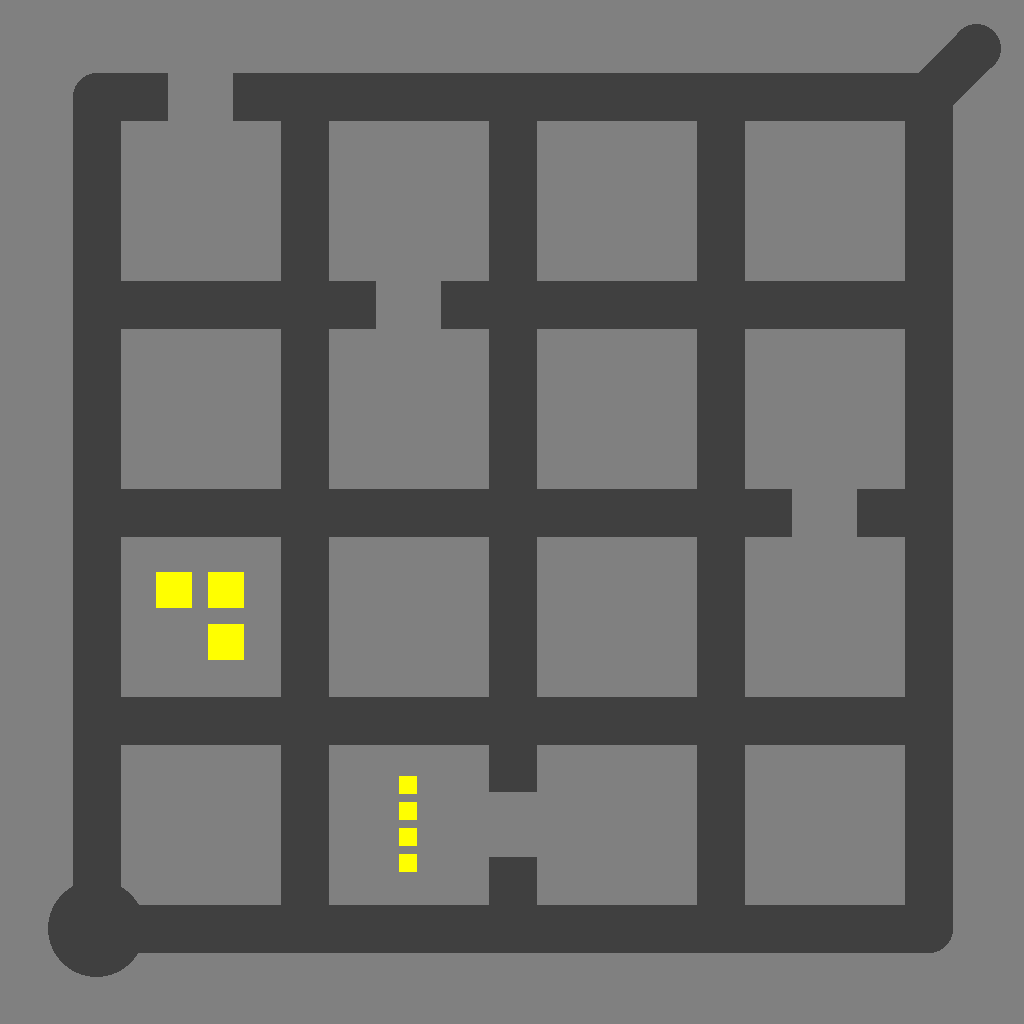
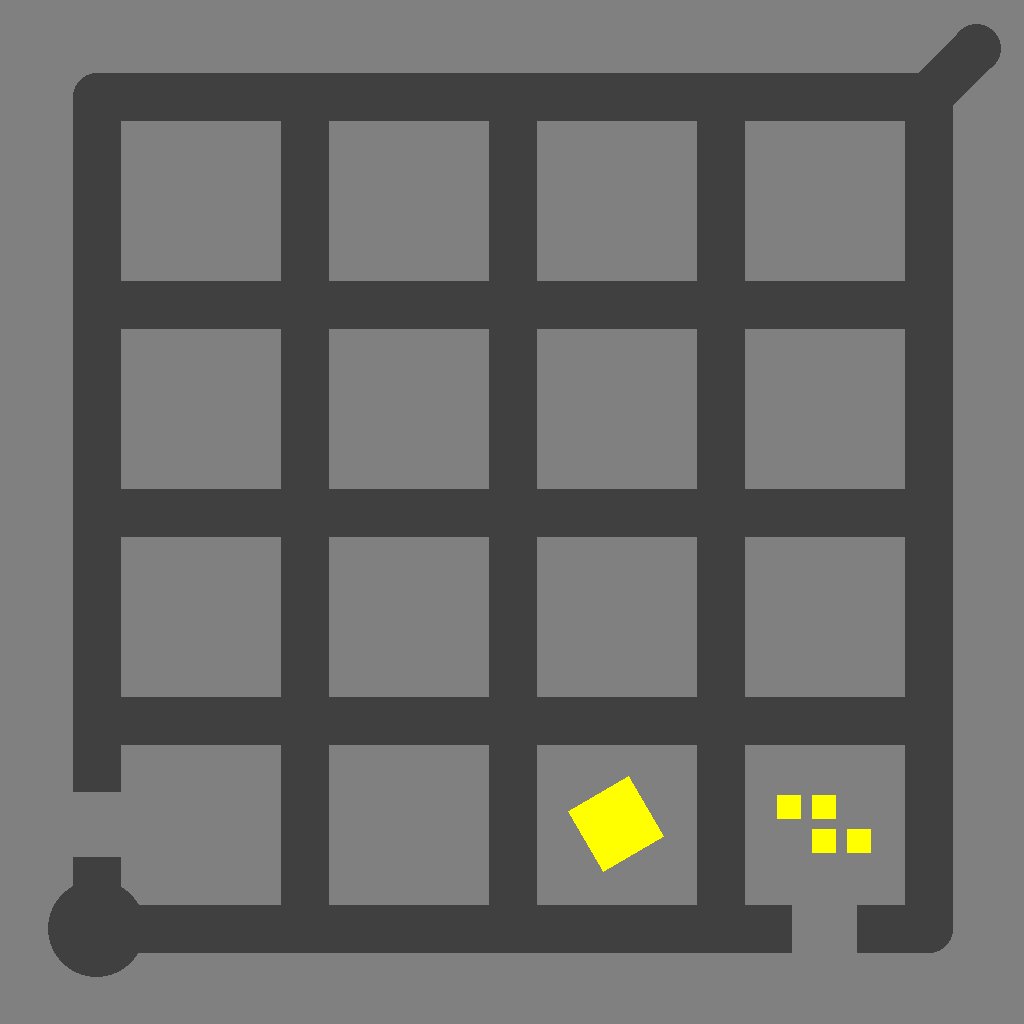
Add files via upload

diff --git a/PYTHON/solver.py b/PYTHON/solver.py
@@ -1,0 +1,101 @@
+from object import Object, Color
+from miscsymbols import Endpoint, Dot, Blob, Star, Triangle, Cancel
+from blockgroup import BlockGroup
+from grid import Grid
+import util
+
+import math
+import sys
+import random
+
+class Solver:
+    callstopath = 0
+    dx = [1, 0, -1, 0]
+    dy = [0, 1, 0, -1]
+    solution = []
+    vis = dict()
+
+    origin = (-1, -1)
+    grid = 0
+
+    def __init__(self, g):
+        self.grid = g
+    
+    def set(self, g):
+        self.grid = g
+    
+    def path(self, src, prev):
+        self.callstopath = self.callstopath + 1
+        if (self.callstopath % 4096 == 0):
+            print(str(self.callstopath), "CALLS TO PATH")
+        if len(self.solution) > 0:
+            return
+        
+        if src in self.grid.ends:
+            self.grid.board[src[0]][src[1]].isPathOccupied = True
+            check = self.grid.ver(self.origin)
+            if (check):
+                self.vis[src] = prev
+                thing = src
+                while thing in self.vis and self.vis[thing] != thing:
+                    self.solution.append(thing)
+                    thing = self.vis[thing]
+                self.solution.append(thing)
+                self.solution.reverse()
+            self.grid.board[src[0]][src[1]].isPathOccupied = False
+            return
+        
+        '''
+        for ii in range(4):
+            x0 = (src[0] + self.dx[(ii + 0) % 4], src[1] + self.dy[(ii + 0) % 4])
+            x1 = (src[0] + self.dx[(ii + 1) % 4], src[1] + self.dy[(ii + 1) % 4])
+            x2 = (src[0] + self.dx[(ii + 2) % 4], src[1] + self.dy[(ii + 2) % 4])
+            x3 = (src[0] + self.dx[(ii + 3) % 4], src[1] + self.dy[(ii + 3) % 4])
+
+            blocked0 = not self.grid.inside(x0)
+            blocked1 = (not self.grid.inside(x1))
+            blocked1 = blocked1 or (self.grid.board[x1[0]][x1[1]].isPathOccupied)
+            blocked2 = not self.grid.inside(x2)
+            blocked3 = (not self.grid.inside(x3))
+            blocked3 = blocked3 or (self.grid.board[x3[0]][x3[1]].isPathOccupied)
+
+            banned = [src, x0]
+            if (blocked0 and (not blocked1) and (not blocked3)):
+                r1 = self.grid.validateRegion(x1, banned)
+                r3 = self.grid.validateRegion(x3, banned)
+                if (not r1) and (not r3):
+                    return
+                break
+        '''
+
+        self.vis[src] = prev
+        self.grid.board[src[0]][src[1]].isPathOccupied = True
+
+        offset = random.randint(0, 3)
+        for ii in range(4):
+            i = (ii + offset) % 4
+            next = (src[0] + self.dx[i], src[1] + self.dy[i])
+            if not self.grid.inside(next):
+                continue
+            if not self.grid.board[next[0]][next[1]].isPath:
+                continue
+            if next in self.vis:
+                continue
+
+            self.path(next, src)
+        
+        self.vis.pop(src)
+        self.grid.board[src[0]][src[1]].isPathOccupied = False
+    
+    def solve(self):
+        self.callstopath = 0
+        self.solution.clear()
+        for i in self.grid.starts:
+            self.origin = i
+            self.vis.clear()
+            self.vis[i] = i
+            self.path(i, i)
+            if len(self.solution) > 0:
+                break
+        
+        return self.solution

diff --git a/PYTHON/main.py b/PYTHON/main.py
@@ -6,6 +6,7 @@ import util
 import presets
 from randgrid import RandGrid
 
+from solver import Solver
 from render import render
 
 thegroup = BlockGroup(True, False, {(0, 0), (-1, 0), (0, -1)})
@@ -72,3 +73,35 @@ rand = RandGrid()
 rand.pathfind()
 
 render("examples/random.png", rand.randBlocks(4, 2))
+
+rand = RandGrid()
+rand.singlepath = False
+rand.pathfind()
+rand.visualize(0)
+randomGrid = rand.randBlobs(9, 3, 0)
+render("examples/random2.png", randomGrid)
+
+solver = Solver(randomGrid)
+
+'''
+for index in range(16):
+	randomGrid = rand.randBlobs(9, 3, 0)
+
+	solver.set(randomGrid)
+	sol = solver.solve()
+	for i in sol:
+		randomGrid.board[i[0]][i[1]].isPathOccupied = True
+	render("examples/random/example_" + str(index) + ".png", randomGrid)
+'''
+
+rand = RandGrid()
+rand.singlepath = True
+rand.pathfind()
+randomGrid = rand.randBlobs(4, 3, 0)
+print("!")
+
+solver.set(randomGrid)
+sol = solver.solve()
+for i in sol:
+	randomGrid.board[i[0]][i[1]].isPathOccupied = True
+render("examples/bigrandom.png", randomGrid)

diff --git a/PYTHON/randgrid.py b/PYTHON/randgrid.py
@@ -113,7 +113,7 @@ class RandGrid: # Right now always generates 4x4 grids.
         path = self.possiblePaths[random.randint(0, len(self.possiblePaths) - 1)]
         self.getRegions(path)
         attempts = 0
-        while attempts < NUM_ATTEMPTS:
+        while attempts < NUM_ATTEMPTS * NUM_ATTEMPTS:
             attempts = attempts + 1
             if self.singlepath:
                 self.pathfind()
@@ -126,6 +126,7 @@ class RandGrid: # Right now always generates 4x4 grids.
             minsize = sys.maxsize
             for i in self.gridRegions:
                 minsize = min(minsize, len(i))
+            # print(len(self.gridRegions), minsize, self.blobRegionScale(numCols), self.minRegionSize(len(self.gridRegions)))
             
             if minsize < self.minRegionSize(len(self.gridRegions)):
                 continue

diff --git a/PYTHON/render.py b/PYTHON/render.py
@@ -188,7 +188,7 @@ def render(output, puzzle, width = 1024, height = 1024, margin = 96, thickness =
 
 			element = puzzle.get((i, j))
 
-			cut_radius = grid_spacing - thickness * 1.5
+			cut_radius = max(grid_spacing - thickness * 1.5, thickness * 0.5)
 			# Draw cuts in the path
 			if (i % 2 == 0 or j % 2 == 0) and not element.isPath:
 				# print((i, j))
